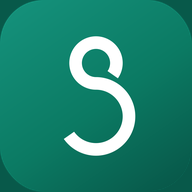
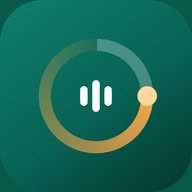
feat(бренд): на сайте тот же знак, что и в приложении — кольцо вместо буквы
Значок приложения сменился вчера: S-монограмма ушла, вместо неё кольцо с
голосом внутри. На сайте осталась буква — человек, пришедший из магазина,
видел два разных продукта.

Знак теперь не перерисовывается руками. Он рисуется одним генератором в
репозитории приложения, а sync-mark.py переносит сюда сам файл значка и
собирает из него React-компонент: 72 коротких дуги с затуханием — это то,
что человек, копируя, копирует неправильно. Плитка с градиентом и скруглением
входит в рисунок, поэтому в шапке ровно то, что стоит у человека на телефоне,
а не «похожее».

Заодно пересобраны иконка вкладки, иконки для телефона и карточка для
соцсетей — они брались из старого набора картинок.

Проверено на светлой и тёмной теме, шапка и подвал.

diff --git a/client/src/components/brand/Logo.tsx b/client/src/components/brand/Logo.tsx
@@ -1,28 +1,110 @@
 /**
- * The Speakband mark: an S monogram cut from the arcs of four circles.
+ * The Speakband mark: a ring with a voice inside it.
  *
- * Redrawn in SVG rather than shipped as a PNG so it inherits `currentColor`
- * and stays crisp at every size. The path is the same one the Android launcher
- * icon and the Play listing use, so the site and the store read as one product;
- * the construction (radii 23.5 / 44.5 / 65.5, a Fibonacci run) lives in the
- * app repo's docs/brand/brand-guide.md.
- *
- * The viewBox is the mark's own bounding box — 131 x 199, taller than wide —
- * so a square slot fits it by height and centres it, which is what the safe
- * zone of the launcher icon does too.
+ * GENERATED by scripts/brand/sync-mark.py from the app repo's own icon — do not
+ * edit the paths by hand, they are 72 arcs with stepped opacities and the next
+ * sync overwrites them. Drawn in SVG rather than shipped as a PNG so it stays
+ * crisp at every size, and identical to the launcher icon rather than merely
+ * similar to it: the tile's gradient and corner radius are part of the drawing,
+ * so the header shows exactly what sits on the user's home screen.
  */
+import { useId } from "react";
+
 export function LogoMark({ className = "" }: { className?: string }) {
+  // The gradient's id has to be unique per instance: the header and the footer
+  // both draw the mark, and two elements sharing an id is two chances to
+  // resolve the wrong one.
+  const tile = useId();
   return (
     <svg
-      viewBox="54.5 15.5 131 199"
+      viewBox="0 0 108 108"
       className={className}
       aria-hidden="true"
       focusable="false"
     >
-      <path
-        d="M 156.45 85.53 A 44.5 44.5 0 1 0 120 104.5 A 44.5 44.5 0 1 1 83.55 174.53 L 66.34 186.57 A 65.5 65.5 0 1 0 120 83.5 A 23.5 23.5 0 1 1 139.25 73.48 Z"
-        fill="currentColor"
-      />
+      <defs><linearGradient id={tile} x1="0.15" y1="0" x2="0.85" y2="1"><stop offset="0" stopColor="#0F7F6C"/><stop offset="0.55" stopColor="#076354"/><stop offset="1" stopColor="#04352D"/></linearGradient></defs>
+        <rect width="108" height="108" rx="24.192" fill={`url(#${tile})`}/>
+        <circle cx="54" cy="54" r="28.7872" fill="none" stroke="#FFFFFF" strokeWidth="6.7957" opacity="0.26"/>
+        <g fill="none" stroke="#F4A64B" strokeWidth="6.7957" strokeLinecap="butt">
+          <path d="M54,25.2128 A28.7872,28.7872 0 0 0 52.1172,25.2744" strokeLinecap="round" opacity="0.067"/>
+          <path d="M52.1172,25.2744 A28.7872,28.7872 0 0 0 50.2425,25.4591" opacity="0.080"/>
+          <path d="M50.2425,25.4591 A28.7872,28.7872 0 0 0 48.3839,25.7659" opacity="0.093"/>
+          <path d="M48.3839,25.7659 A28.7872,28.7872 0 0 0 46.5493,26.1937" opacity="0.106"/>
+          <path d="M46.5493,26.1937 A28.7872,28.7872 0 0 0 44.7466,26.7405" opacity="0.119"/>
+          <path d="M44.7466,26.7405 A28.7872,28.7872 0 0 0 42.9836,27.4041" opacity="0.132"/>
+          <path d="M42.9836,27.4041 A28.7872,28.7872 0 0 0 41.2677,28.1815" opacity="0.145"/>
+          <path d="M41.2677,28.1815 A28.7872,28.7872 0 0 0 39.6064,29.0695" opacity="0.158"/>
+          <path d="M39.6064,29.0695 A28.7872,28.7872 0 0 0 38.0067,30.0643" opacity="0.171"/>
+          <path d="M38.0067,30.0643 A28.7872,28.7872 0 0 0 36.4754,31.1616" opacity="0.184"/>
+          <path d="M36.4754,31.1616 A28.7872,28.7872 0 0 0 35.0193,32.3566" opacity="0.197"/>
+          <path d="M35.0193,32.3566 A28.7872,28.7872 0 0 0 33.6444,33.6444" opacity="0.210"/>
+          <path d="M33.6444,33.6444 A28.7872,28.7872 0 0 0 32.3566,35.0193" opacity="0.223"/>
+          <path d="M32.3566,35.0193 A28.7872,28.7872 0 0 0 31.1616,36.4754" opacity="0.236"/>
+          <path d="M31.1616,36.4754 A28.7872,28.7872 0 0 0 30.0643,38.0067" opacity="0.249"/>
+          <path d="M30.0643,38.0067 A28.7872,28.7872 0 0 0 29.0695,39.6064" opacity="0.262"/>
+          <path d="M29.0695,39.6064 A28.7872,28.7872 0 0 0 28.1815,41.2677" opacity="0.275"/>
+          <path d="M28.1815,41.2677 A28.7872,28.7872 0 0 0 27.4041,42.9836" opacity="0.288"/>
+          <path d="M27.4041,42.9836 A28.7872,28.7872 0 0 0 26.7405,44.7466" opacity="0.302"/>
+          <path d="M26.7405,44.7466 A28.7872,28.7872 0 0 0 26.1937,46.5493" opacity="0.315"/>
+          <path d="M26.1937,46.5493 A28.7872,28.7872 0 0 0 25.7659,48.3839" opacity="0.328"/>
+          <path d="M25.7659,48.3839 A28.7872,28.7872 0 0 0 25.4591,50.2425" opacity="0.341"/>
+          <path d="M25.4591,50.2425 A28.7872,28.7872 0 0 0 25.2744,52.1172" opacity="0.354"/>
+          <path d="M25.2744,52.1172 A28.7872,28.7872 0 0 0 25.2128,54" opacity="0.367"/>
+          <path d="M25.2128,54 A28.7872,28.7872 0 0 0 25.2744,55.8828" opacity="0.380"/>
+          <path d="M25.2744,55.8828 A28.7872,28.7872 0 0 0 25.4591,57.7575" opacity="0.393"/>
+          <path d="M25.4591,57.7575 A28.7872,28.7872 0 0 0 25.7659,59.6161" opacity="0.406"/>
+          <path d="M25.7659,59.6161 A28.7872,28.7872 0 0 0 26.1937,61.4507" opacity="0.419"/>
+          <path d="M26.1937,61.4507 A28.7872,28.7872 0 0 0 26.7405,63.2534" opacity="0.432"/>
+          <path d="M26.7405,63.2534 A28.7872,28.7872 0 0 0 27.4041,65.0164" opacity="0.445"/>
+          <path d="M27.4041,65.0164 A28.7872,28.7872 0 0 0 28.1815,66.7323" opacity="0.458"/>
+          <path d="M28.1815,66.7323 A28.7872,28.7872 0 0 0 29.0695,68.3936" opacity="0.471"/>
+          <path d="M29.0695,68.3936 A28.7872,28.7872 0 0 0 30.0643,69.9933" opacity="0.484"/>
+          <path d="M30.0643,69.9933 A28.7872,28.7872 0 0 0 31.1616,71.5246" opacity="0.497"/>
+          <path d="M31.1616,71.5246 A28.7872,28.7872 0 0 0 32.3566,72.9807" opacity="0.510"/>
+          <path d="M32.3566,72.9807 A28.7872,28.7872 0 0 0 33.6444,74.3556" opacity="0.523"/>
+          <path d="M33.6444,74.3556 A28.7872,28.7872 0 0 0 35.0193,75.6434" opacity="0.537"/>
+          <path d="M35.0193,75.6434 A28.7872,28.7872 0 0 0 36.4754,76.8384" opacity="0.550"/>
+          <path d="M36.4754,76.8384 A28.7872,28.7872 0 0 0 38.0067,77.9357" opacity="0.563"/>
+          <path d="M38.0067,77.9357 A28.7872,28.7872 0 0 0 39.6064,78.9305" opacity="0.576"/>
+          <path d="M39.6064,78.9305 A28.7872,28.7872 0 0 0 41.2677,79.8185" opacity="0.589"/>
+          <path d="M41.2677,79.8185 A28.7872,28.7872 0 0 0 42.9836,80.5959" opacity="0.602"/>
+          <path d="M42.9836,80.5959 A28.7872,28.7872 0 0 0 44.7466,81.2595" opacity="0.615"/>
+          <path d="M44.7466,81.2595 A28.7872,28.7872 0 0 0 46.5493,81.8063" opacity="0.628"/>
+          <path d="M46.5493,81.8063 A28.7872,28.7872 0 0 0 48.3839,82.2341" opacity="0.641"/>
+          <path d="M48.3839,82.2341 A28.7872,28.7872 0 0 0 50.2425,82.5409" opacity="0.654"/>
+          <path d="M50.2425,82.5409 A28.7872,28.7872 0 0 0 52.1172,82.7256" opacity="0.667"/>
+          <path d="M52.1172,82.7256 A28.7872,28.7872 0 0 0 54,82.7872" opacity="0.680"/>
+          <path d="M54,82.7872 A28.7872,28.7872 0 0 0 55.8828,82.7256" opacity="0.693"/>
+          <path d="M55.8828,82.7256 A28.7872,28.7872 0 0 0 57.7575,82.5409" opacity="0.706"/>
+          <path d="M57.7575,82.5409 A28.7872,28.7872 0 0 0 59.6161,82.2341" opacity="0.719"/>
+          <path d="M59.6161,82.2341 A28.7872,28.7872 0 0 0 61.4507,81.8063" opacity="0.732"/>
+          <path d="M61.4507,81.8063 A28.7872,28.7872 0 0 0 63.2534,81.2595" opacity="0.745"/>
+          <path d="M63.2534,81.2595 A28.7872,28.7872 0 0 0 65.0164,80.5959" opacity="0.758"/>
+          <path d="M65.0164,80.5959 A28.7872,28.7872 0 0 0 66.7323,79.8185" opacity="0.772"/>
+          <path d="M66.7323,79.8185 A28.7872,28.7872 0 0 0 68.3936,78.9305" opacity="0.785"/>
+          <path d="M68.3936,78.9305 A28.7872,28.7872 0 0 0 69.9933,77.9357" opacity="0.798"/>
+          <path d="M69.9933,77.9357 A28.7872,28.7872 0 0 0 71.5246,76.8384" opacity="0.811"/>
+          <path d="M71.5246,76.8384 A28.7872,28.7872 0 0 0 72.9807,75.6434" opacity="0.824"/>
+          <path d="M72.9807,75.6434 A28.7872,28.7872 0 0 0 74.3556,74.3556" opacity="0.837"/>
+          <path d="M74.3556,74.3556 A28.7872,28.7872 0 0 0 75.6434,72.9807" opacity="0.850"/>
+          <path d="M75.6434,72.9807 A28.7872,28.7872 0 0 0 76.8384,71.5246" opacity="0.863"/>
+          <path d="M76.8384,71.5246 A28.7872,28.7872 0 0 0 77.9357,69.9933" opacity="0.876"/>
+          <path d="M77.9357,69.9933 A28.7872,28.7872 0 0 0 78.9305,68.3936" opacity="0.889"/>
+          <path d="M78.9305,68.3936 A28.7872,28.7872 0 0 0 79.8185,66.7323" opacity="0.902"/>
+          <path d="M79.8185,66.7323 A28.7872,28.7872 0 0 0 80.5959,65.0164" opacity="0.915"/>
+          <path d="M80.5959,65.0164 A28.7872,28.7872 0 0 0 81.2595,63.2534" opacity="0.928"/>
+          <path d="M81.2595,63.2534 A28.7872,28.7872 0 0 0 81.8063,61.4507" opacity="0.941"/>
+          <path d="M81.8063,61.4507 A28.7872,28.7872 0 0 0 82.2341,59.6161" opacity="0.954"/>
+          <path d="M82.2341,59.6161 A28.7872,28.7872 0 0 0 82.5409,57.7575" opacity="0.967"/>
+          <path d="M82.5409,57.7575 A28.7872,28.7872 0 0 0 82.7256,55.8828" opacity="0.980"/>
+          <path d="M82.7256,55.8828 A28.7872,28.7872 0 0 0 82.7872,54" opacity="0.993"/>
+        </g>
+        <circle cx="82.7872" cy="54" r="5.4979" fill="#FFD79E"/>
+        <g stroke="#FFFFFF" strokeWidth="4.2" strokeLinecap="round">
+          <path d="M47.2043,50.6021 L47.2043,57.3979"/>
+          <path d="M54,47.2043 L54,60.7957"/>
+          <path d="M60.7957,50.6021 L60.7957,57.3979"/>
+        </g>
     </svg>
   );
 }
@@ -30,9 +112,7 @@ export function LogoMark({ className = "" }: { className?: string }) {
 export function Wordmark({ className = "" }: { className?: string }) {
   return (
     <span className={`inline-flex items-center gap-2.5 ${className}`}>
-      <span className="grid h-9 w-9 place-items-center rounded-xl bg-primary text-primary-foreground">
-        <LogoMark className="h-[22px]" />
-      </span>
+      <LogoMark className="h-9 w-9" />
       <span
         className="text-[1.0625rem] font-bold tracking-tight"
         style={{ fontFamily: "var(--font-display)" }}

diff --git a/scripts/brand/sync-mark.py b/scripts/brand/sync-mark.py
@@ -1,0 +1,115 @@
+#!/usr/bin/env python3
+"""Pull the brand mark across from the app repo, so the site cannot drift.
+
+The mark is authored once, in the app repo (`docs/brand/gen_mark.py`), because
+the launcher icon is the copy that matters — it is the one people see on a
+phone. Everything here is downstream of that: the favicon, the two raster
+icons, the social card, and the React component the header and footer draw.
+
+The React component is *generated*, not hand-kept: the mark is 72 short arcs
+whose opacities step along the tail, and a human copying that by hand copies it
+wrong. Editing `Logo.tsx` directly is therefore pointless — the next sync
+overwrites it. Change `gen_mark.py` in the app repo instead and run this.
+
+Run: python3 scripts/brand/sync-mark.py && python3 scripts/brand/gen-assets.py
+"""
+import os
+import shutil
+
+HERE = os.path.dirname(os.path.abspath(__file__))
+REPO = os.path.dirname(os.path.dirname(HERE))
+APP = os.path.join(os.path.dirname(REPO), "IELTSAPP", "docs", "brand")
+
+FAVICON = os.path.join(REPO, "client", "public", "favicon.svg")
+COMPONENT = os.path.join(REPO, "client", "src", "components", "brand", "Logo.tsx")
+
+# Source in the app repo -> copy here. The rounded tile and the white mark are
+# what gen-assets.py rasterises; the SVG is what the browser and the component
+# use.
+COPIES = (
+    (os.path.join(APP, "svg", "icon-primary.svg"), FAVICON),
+    (os.path.join(APP, "png", "play-store", "speakband-icon-rounded-1024.png"),
+     os.path.join(HERE, "icon-rounded.png")),
+    (os.path.join(APP, "png", "speakband-mark-white-1024.png"),
+     os.path.join(HERE, "mark-white.png")),
+)
+
+# React wants camelCase where SVG spells an attribute with a hyphen.
+ATTRS = (
+    ("stroke-width", "strokeWidth"), ("stroke-linecap", "strokeLinecap"),
+    ("stroke-linejoin", "strokeLinejoin"), ("stop-color", "stopColor"),
+    ("stop-opacity", "stopOpacity"), ("fill-rule", "fillRule"),
+    ("clip-rule", "clipRule"),
+)
+
+HEADER = '''/**
+ * The Speakband mark: a ring with a voice inside it.
+ *
+ * GENERATED by scripts/brand/sync-mark.py from the app repo's own icon — do not
+ * edit the paths by hand, they are 72 arcs with stepped opacities and the next
+ * sync overwrites them. Drawn in SVG rather than shipped as a PNG so it stays
+ * crisp at every size, and identical to the launcher icon rather than merely
+ * similar to it: the tile's gradient and corner radius are part of the drawing,
+ * so the header shows exactly what sits on the user's home screen.
+ */
+import { useId } from "react";
+
+export function LogoMark({ className = "" }: { className?: string }) {
+  // The gradient's id has to be unique per instance: the header and the footer
+  // both draw the mark, and two elements sharing an id is two chances to
+  // resolve the wrong one.
+  const tile = useId();
+  return (
+    <svg
+      viewBox="0 0 108 108"
+      className={className}
+      aria-hidden="true"
+      focusable="false"
+    >
+'''
+
+FOOTER = '''
+    </svg>
+  );
+}
+
+export function Wordmark({ className = "" }: { className?: string }) {
+  return (
+    <span className={`inline-flex items-center gap-2.5 ${className}`}>
+      <LogoMark className="h-9 w-9" />
+      <span
+        className="text-[1.0625rem] font-bold tracking-tight"
+        style={{ fontFamily: "var(--font-display)" }}
+      >
+        Speakband
+      </span>
+    </span>
+  );
+}
+'''
+
+
+def component_from(svg: str) -> str:
+    body = svg.split(">", 1)[1].rsplit("</svg>", 1)[0].strip()
+    for hyphenated, camel in ATTRS:
+        body = body.replace(hyphenated + "=", camel + "=")
+    body = (body.replace('id="tile"', "id={tile}")
+                .replace('"url(#tile)"', "{`url(#${tile})`}"))
+    body = "\n".join(("      " + line) if line.strip() else line
+                     for line in body.splitlines())
+    return HEADER + body + FOOTER
+
+
+def main() -> None:
+    for src, dst in COPIES:
+        shutil.copyfile(src, dst)
+        print("copied:", os.path.relpath(dst, REPO))
+    with open(FAVICON) as f:
+        svg = f.read()
+    with open(COMPONENT, "w") as f:
+        f.write(component_from(svg))
+    print("wrote:", os.path.relpath(COMPONENT, REPO))
+
+
+if __name__ == "__main__":
+    main()
